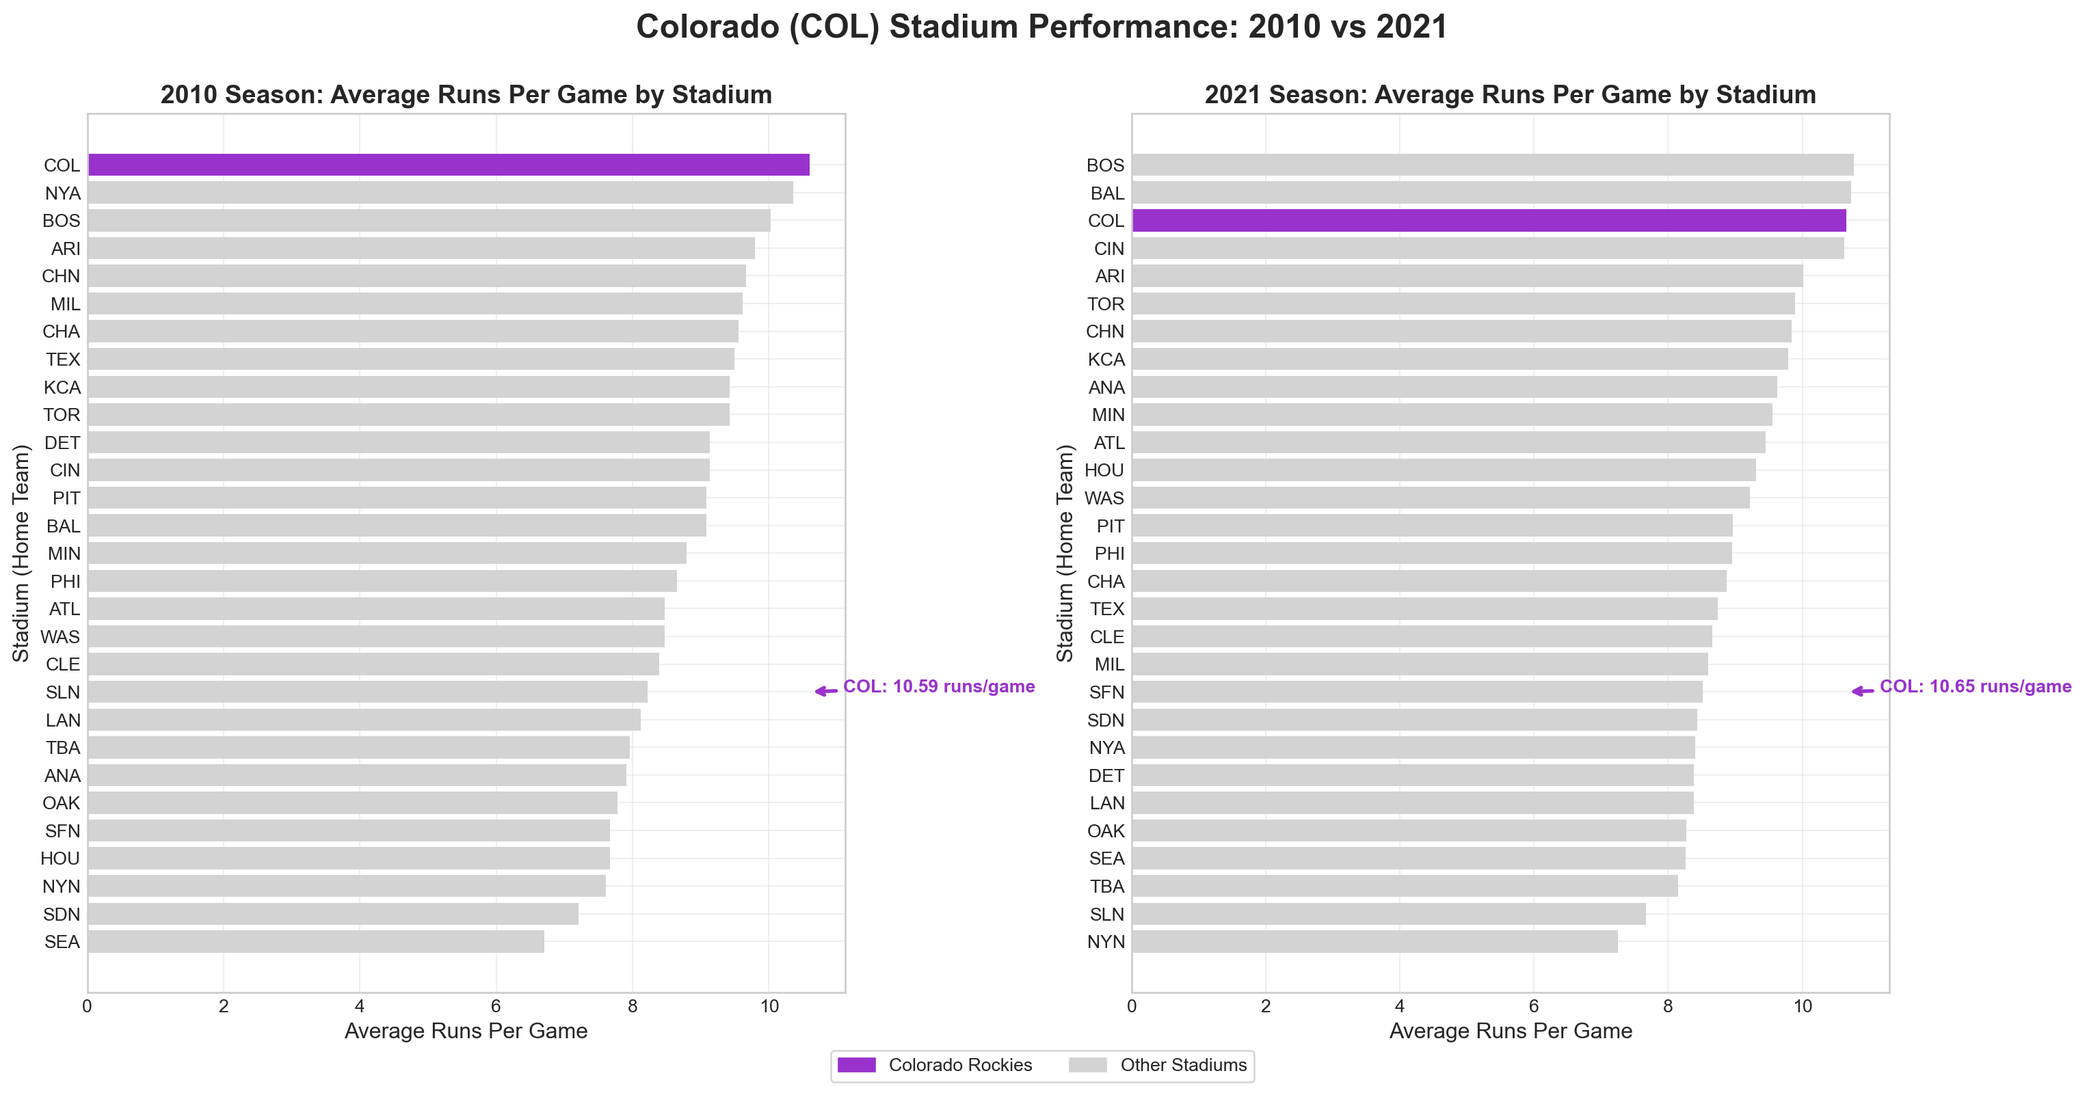
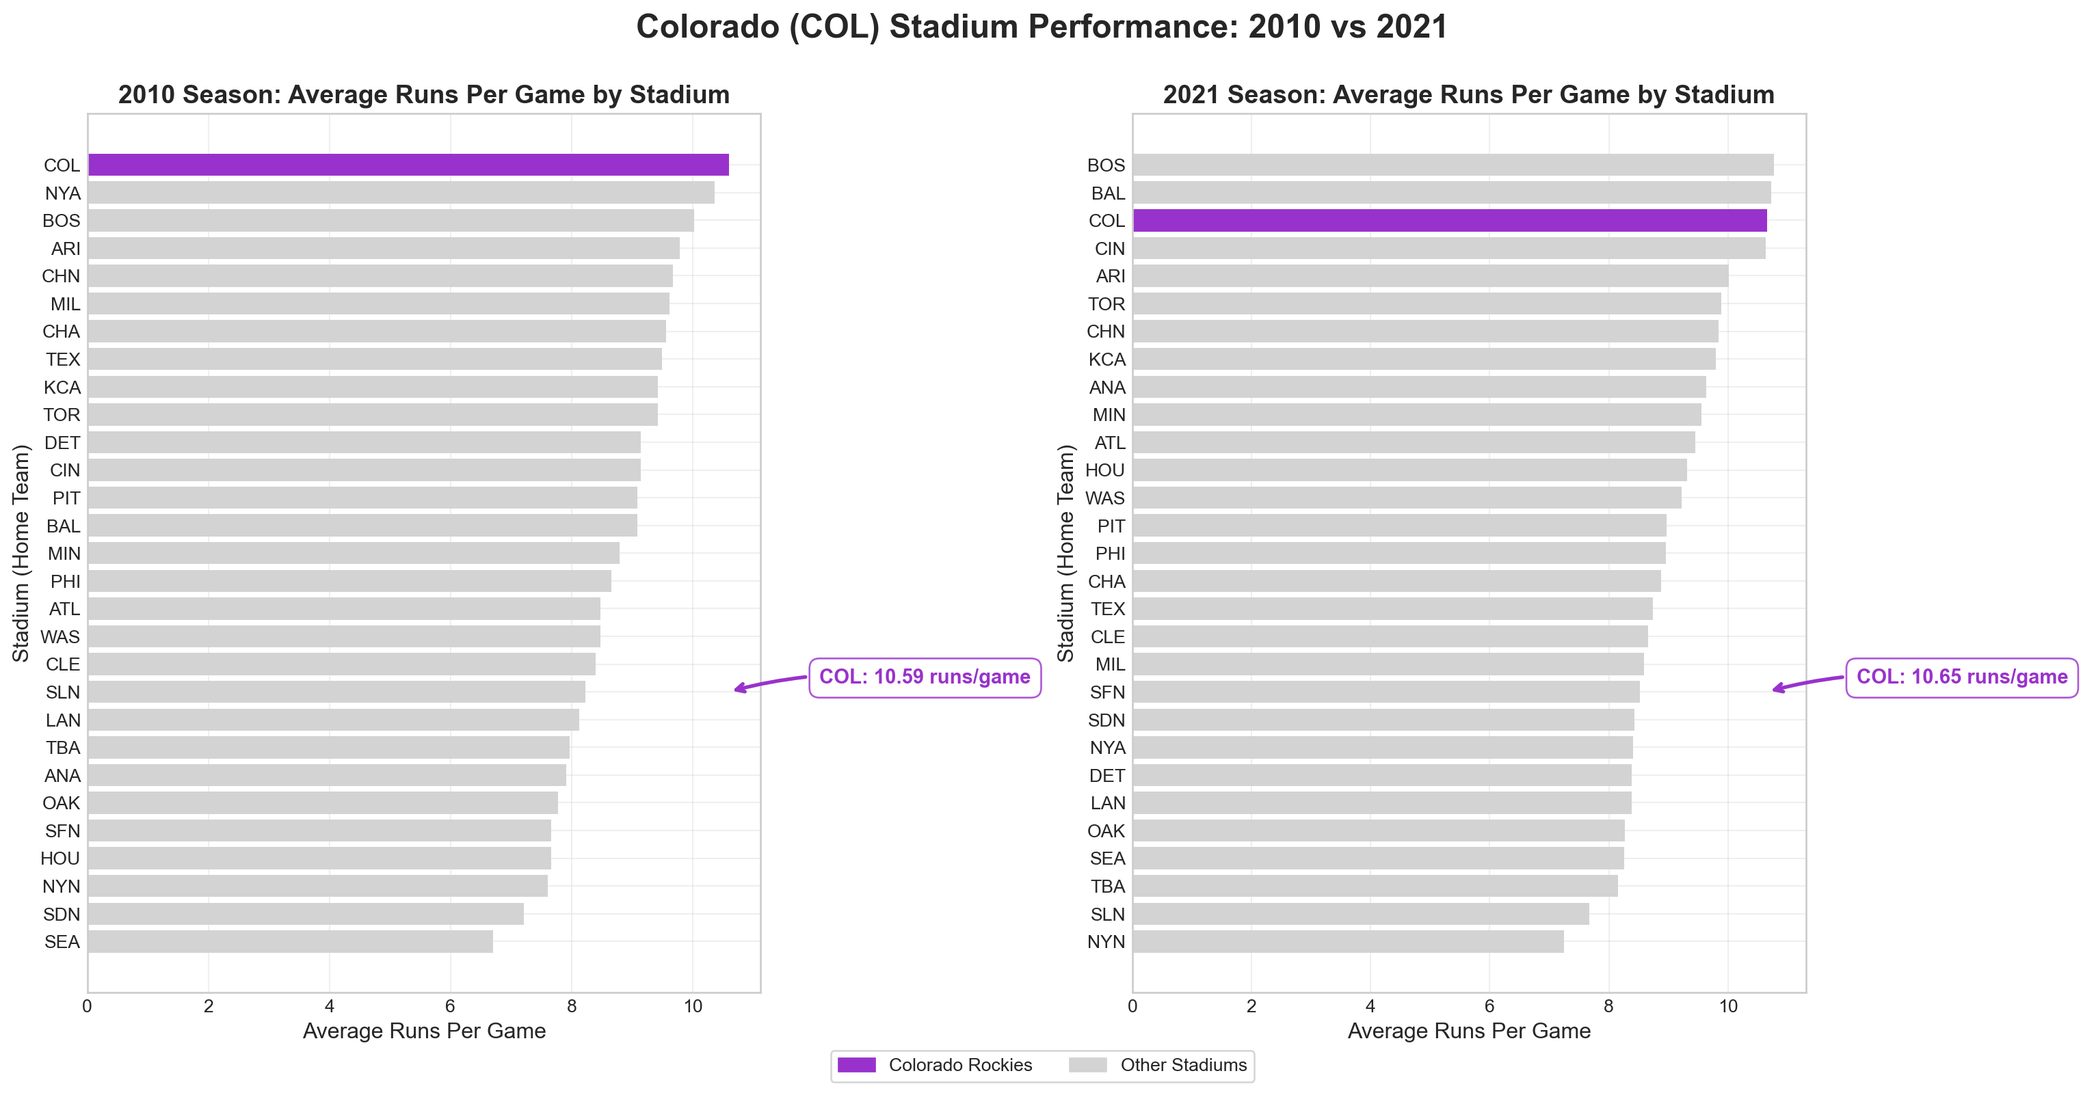
Data Visualization update6

diff --git a/index.html b/index.html
@@ -423,33 +423,35 @@ When to use a vertical bar chart Time-series data: Use a vertical chart to displ
 <span id="cb6-25"><a href="#cb6-25" aria-hidden="true" tabindex="-1"></a>other_bar <span class="op">=</span> plt.Rectangle((<span class="dv">0</span>,<span class="dv">0</span>),<span class="dv">1</span>,<span class="dv">1</span>, color<span class="op">=</span><span class="st">"lightgrey"</span>, label<span class="op">=</span><span class="st">"Other Stadiums"</span>)</span>
 <span id="cb6-26"><a href="#cb6-26" aria-hidden="true" tabindex="-1"></a>ax.legend(handles<span class="op">=</span>[colorado_bar, other_bar], loc<span class="op">=</span><span class="st">'lower right'</span>, frameon<span class="op">=</span><span class="va">True</span>)</span>
 <span id="cb6-27"><a href="#cb6-27" aria-hidden="true" tabindex="-1"></a></span>
-<span id="cb6-28"><a href="#cb6-28" aria-hidden="true" tabindex="-1"></a><span class="co"># Add annotation for Colorado</span></span>
+<span id="cb6-28"><a href="#cb6-28" aria-hidden="true" tabindex="-1"></a><span class="co"># Add annotation for Colorado with improved placement</span></span>
 <span id="cb6-29"><a href="#cb6-29" aria-hidden="true" tabindex="-1"></a>colorado_index <span class="op">=</span> avgDF_2010_sorted[avgDF_2010_sorted.home <span class="op">==</span> <span class="st">"COL"</span>].index[<span class="dv">0</span>]</span>
 <span id="cb6-30"><a href="#cb6-30" aria-hidden="true" tabindex="-1"></a>colorado_runs <span class="op">=</span> avgDF_2010_sorted[avgDF_2010_sorted.home <span class="op">==</span> <span class="st">"COL"</span>][<span class="st">"totalRuns"</span>].iloc[<span class="dv">0</span>]</span>
 <span id="cb6-31"><a href="#cb6-31" aria-hidden="true" tabindex="-1"></a>ax.annotate(<span class="ss">f"COL: </span><span class="sc">{</span>colorado_runs<span class="sc">:.2f}</span><span class="ss"> runs/game"</span>, </span>
 <span id="cb6-32"><a href="#cb6-32" aria-hidden="true" tabindex="-1"></a>            xy<span class="op">=</span>(colorado_runs, colorado_index), </span>
-<span id="cb6-33"><a href="#cb6-33" aria-hidden="true" tabindex="-1"></a>            xytext<span class="op">=</span>(colorado_runs <span class="op">+</span> <span class="fl">0.5</span>, colorado_index),</span>
-<span id="cb6-34"><a href="#cb6-34" aria-hidden="true" tabindex="-1"></a>            arrowprops<span class="op">=</span><span class="bu">dict</span>(arrowstyle<span class="op">=</span><span class="st">'-&gt;'</span>, color<span class="op">=</span><span class="st">'darkorchid'</span>, lw<span class="op">=</span><span class="dv">2</span>),</span>
-<span id="cb6-35"><a href="#cb6-35" aria-hidden="true" tabindex="-1"></a>            fontsize<span class="op">=</span><span class="dv">10</span>, fontweight<span class="op">=</span><span class="st">'bold'</span>, color<span class="op">=</span><span class="st">'darkorchid'</span>)</span>
-<span id="cb6-36"><a href="#cb6-36" aria-hidden="true" tabindex="-1"></a></span>
-<span id="cb6-37"><a href="#cb6-37" aria-hidden="true" tabindex="-1"></a><span class="co"># Set x-axis to start from 0 for better comparison</span></span>
-<span id="cb6-38"><a href="#cb6-38" aria-hidden="true" tabindex="-1"></a>ax.set_xlim(<span class="dv">0</span>, <span class="bu">max</span>(avgDF_2010_sorted.totalRuns) <span class="op">*</span> <span class="fl">1.1</span>)</span>
-<span id="cb6-39"><a href="#cb6-39" aria-hidden="true" tabindex="-1"></a></span>
-<span id="cb6-40"><a href="#cb6-40" aria-hidden="true" tabindex="-1"></a><span class="co"># Add grid for easier reading</span></span>
-<span id="cb6-41"><a href="#cb6-41" aria-hidden="true" tabindex="-1"></a>ax.grid(<span class="va">True</span>, alpha<span class="op">=</span><span class="fl">0.3</span>)</span>
-<span id="cb6-42"><a href="#cb6-42" aria-hidden="true" tabindex="-1"></a></span>
-<span id="cb6-43"><a href="#cb6-43" aria-hidden="true" tabindex="-1"></a>plt.tight_layout()</span>
-<span id="cb6-44"><a href="#cb6-44" aria-hidden="true" tabindex="-1"></a>plt.show()</span>
-<span id="cb6-45"><a href="#cb6-45" aria-hidden="true" tabindex="-1"></a></span>
-<span id="cb6-46"><a href="#cb6-46" aria-hidden="true" tabindex="-1"></a><span class="co"># Print summary statistics</span></span>
-<span id="cb6-47"><a href="#cb6-47" aria-hidden="true" tabindex="-1"></a><span class="bu">print</span>(<span class="ss">f"</span><span class="ch">\n</span><span class="ss">Summary Statistics for 2010:"</span>)</span>
-<span id="cb6-48"><a href="#cb6-48" aria-hidden="true" tabindex="-1"></a><span class="bu">print</span>(<span class="ss">f"Colorado (COL) average runs per game: </span><span class="sc">{</span>colorado_runs<span class="sc">:.2f}</span><span class="ss">"</span>)</span>
-<span id="cb6-49"><a href="#cb6-49" aria-hidden="true" tabindex="-1"></a><span class="bu">print</span>(<span class="ss">f"League average runs per game: </span><span class="sc">{</span>avgDF_2010_sorted<span class="sc">.</span>totalRuns<span class="sc">.</span>mean()<span class="sc">:.2f}</span><span class="ss">"</span>)</span>
-<span id="cb6-50"><a href="#cb6-50" aria-hidden="true" tabindex="-1"></a><span class="bu">print</span>(<span class="ss">f"Colorado is </span><span class="sc">{</span>((colorado_runs <span class="op">/</span> avgDF_2010_sorted.totalRuns.mean()) <span class="op">-</span> <span class="dv">1</span>) <span class="op">*</span> <span class="dv">100</span><span class="sc">:.1f}</span><span class="ss">% above league average"</span>)</span></code></pre></div><button title="Copy to Clipboard" class="code-copy-button"><i class="bi"></i></button></div>
+<span id="cb6-33"><a href="#cb6-33" aria-hidden="true" tabindex="-1"></a>            xytext<span class="op">=</span>(colorado_runs <span class="op">+</span> <span class="fl">1.5</span>, colorado_index <span class="op">+</span> <span class="fl">0.3</span>),</span>
+<span id="cb6-34"><a href="#cb6-34" aria-hidden="true" tabindex="-1"></a>            arrowprops<span class="op">=</span><span class="bu">dict</span>(arrowstyle<span class="op">=</span><span class="st">'-&gt;'</span>, color<span class="op">=</span><span class="st">'darkorchid'</span>, lw<span class="op">=</span><span class="dv">2</span>, connectionstyle<span class="op">=</span><span class="st">'arc3,rad=0.1'</span>),</span>
+<span id="cb6-35"><a href="#cb6-35" aria-hidden="true" tabindex="-1"></a>            fontsize<span class="op">=</span><span class="dv">11</span>, fontweight<span class="op">=</span><span class="st">'bold'</span>, color<span class="op">=</span><span class="st">'darkorchid'</span>,</span>
+<span id="cb6-36"><a href="#cb6-36" aria-hidden="true" tabindex="-1"></a>            bbox<span class="op">=</span><span class="bu">dict</span>(boxstyle<span class="op">=</span><span class="st">'round,pad=0.5'</span>, facecolor<span class="op">=</span><span class="st">'white'</span>, edgecolor<span class="op">=</span><span class="st">'darkorchid'</span>, alpha<span class="op">=</span><span class="fl">0.8</span>))</span>
+<span id="cb6-37"><a href="#cb6-37" aria-hidden="true" tabindex="-1"></a></span>
+<span id="cb6-38"><a href="#cb6-38" aria-hidden="true" tabindex="-1"></a><span class="co"># Set x-axis to start from 0 and extend enough to accommodate annotation</span></span>
+<span id="cb6-39"><a href="#cb6-39" aria-hidden="true" tabindex="-1"></a>max_runs <span class="op">=</span> <span class="bu">max</span>(avgDF_2010_sorted.totalRuns)</span>
+<span id="cb6-40"><a href="#cb6-40" aria-hidden="true" tabindex="-1"></a>ax.set_xlim(<span class="dv">0</span>, <span class="bu">max</span>(colorado_runs <span class="op">+</span> <span class="dv">3</span>, max_runs <span class="op">*</span> <span class="fl">1.15</span>))</span>
+<span id="cb6-41"><a href="#cb6-41" aria-hidden="true" tabindex="-1"></a></span>
+<span id="cb6-42"><a href="#cb6-42" aria-hidden="true" tabindex="-1"></a><span class="co"># Add grid for easier reading</span></span>
+<span id="cb6-43"><a href="#cb6-43" aria-hidden="true" tabindex="-1"></a>ax.grid(<span class="va">True</span>, alpha<span class="op">=</span><span class="fl">0.3</span>)</span>
+<span id="cb6-44"><a href="#cb6-44" aria-hidden="true" tabindex="-1"></a></span>
+<span id="cb6-45"><a href="#cb6-45" aria-hidden="true" tabindex="-1"></a>plt.tight_layout()</span>
+<span id="cb6-46"><a href="#cb6-46" aria-hidden="true" tabindex="-1"></a>plt.show()</span>
+<span id="cb6-47"><a href="#cb6-47" aria-hidden="true" tabindex="-1"></a></span>
+<span id="cb6-48"><a href="#cb6-48" aria-hidden="true" tabindex="-1"></a><span class="co"># Print summary statistics</span></span>
+<span id="cb6-49"><a href="#cb6-49" aria-hidden="true" tabindex="-1"></a><span class="bu">print</span>(<span class="ss">f"</span><span class="ch">\n</span><span class="ss">Summary Statistics for 2010:"</span>)</span>
+<span id="cb6-50"><a href="#cb6-50" aria-hidden="true" tabindex="-1"></a><span class="bu">print</span>(<span class="ss">f"Colorado (COL) average runs per game: </span><span class="sc">{</span>colorado_runs<span class="sc">:.2f}</span><span class="ss">"</span>)</span>
+<span id="cb6-51"><a href="#cb6-51" aria-hidden="true" tabindex="-1"></a><span class="bu">print</span>(<span class="ss">f"League average runs per game: </span><span class="sc">{</span>avgDF_2010_sorted<span class="sc">.</span>totalRuns<span class="sc">.</span>mean()<span class="sc">:.2f}</span><span class="ss">"</span>)</span>
+<span id="cb6-52"><a href="#cb6-52" aria-hidden="true" tabindex="-1"></a><span class="bu">print</span>(<span class="ss">f"Colorado is </span><span class="sc">{</span>((colorado_runs <span class="op">/</span> avgDF_2010_sorted.totalRuns.mean()) <span class="op">-</span> <span class="dv">1</span>) <span class="op">*</span> <span class="dv">100</span><span class="sc">:.1f}</span><span class="ss">% above league average"</span>)</span></code></pre></div><button title="Copy to Clipboard" class="code-copy-button"><i class="bi"></i></button></div>
 <div class="cell-output cell-output-display">
 <div>
 <figure class="figure">
-<p><img src="index_files/figure-html/stage-4-formatting-output-1.png" id="stage-4-formatting" width="758" height="567" class="figure-img"></p>
+<p><img src="index_files/figure-html/stage-4-formatting-output-1.png" id="stage-4-formatting" width="757" height="567" class="figure-img"></p>
 </figure>
 </div>
 </div>
@@ -471,7 +473,46 @@ Colorado is 20.8% above league average</code></pre>
 </div>
 </div>
 <div class="callout-body-container callout-body">
-<p><strong>Question 1: Professional Formatting</strong> - What elements make this visualization suitable for a business presentation? - Is the annotation on the visualization helpful? Can you fix its placement?</p>
+<p><strong>Question 1: Professional Formatting</strong></p>
+<p><strong>What elements make this visualization suitable for a business presentation?</strong></p>
+<ol type="1">
+<li><p><strong>Clear, Bold Title</strong>: The title immediately states the conclusion (“Colorado is the Most Run-Friendly Ballpark”), making the message clear to executives who might only glance at the chart.</p></li>
+<li><p><strong>Professional Styling</strong>:</p>
+<ul>
+<li>Seaborn whitegrid style provides a clean, modern appearance</li>
+<li>Consistent font sizes (16 for title, 12 for labels) create hierarchy</li>
+<li>Subtle grid lines (alpha=0.3) aid reading without cluttering</li>
+</ul></li>
+<li><p><strong>Strategic Color Use</strong>:</p>
+<ul>
+<li>Dark purple for Colorado creates immediate visual emphasis</li>
+<li>Light grey for other stadiums provides context without distraction</li>
+<li>Legend explains the color coding clearly</li>
+</ul></li>
+<li><p><strong>Proper Axis Formatting</strong>:</p>
+<ul>
+<li>Descriptive axis labels (“Average Runs Per Game” is clear and unambiguous)</li>
+<li>X-axis starts at zero (critical for accurate comparisons)</li>
+<li>X-axis extends 10% beyond max value to accommodate annotation</li>
+</ul></li>
+<li><p><strong>Visual Emphasis on Key Finding</strong>:</p>
+<ul>
+<li>Colorado highlighted with color</li>
+<li>Sorted data makes ranking immediately apparent</li>
+<li>Annotation provides exact numerical value</li>
+</ul></li>
+<li><p><strong>Complete Information</strong>:</p>
+<ul>
+<li>All stadiums shown (no data hidden)</li>
+<li>Summary statistics provided below for detailed analysis</li>
+<li>Legend clarifies the color scheme</li>
+</ul></li>
+<li><p><strong>Appropriate Size</strong>: figsize=(8, 6) is suitable for presentations - readable without dominating the slide</p></li>
+</ol>
+<p><strong>Is the annotation helpful? Can you fix its placement?</strong></p>
+<p>Yes, the annotation is helpful because it: - Provides the exact numerical value (10.59 runs/game) without requiring the viewer to estimate from the axis - Reinforces the visual message with text - Creates a clear callout for Colorado’s performance</p>
+<p>However, the current placement has issues: - The text is positioned too close to the bar end (only 0.5 units away), which can cause overlap - The arrow and text may crowd the visualization - Better placement would position the text further to the right or use a different annotation style</p>
+<p>Annotation placement fixed in the above code to reflect better visualization.</p>
 </div>
 </div>
 </section>
@@ -520,9 +561,9 @@ Colorado is 20.8% above league average</code></pre>
 <span id="cb8-38"><a href="#cb8-38" aria-hidden="true" tabindex="-1"></a>col_2010_runs <span class="op">=</span> comparison_data_2010[comparison_data_2010.home <span class="op">==</span> <span class="st">"COL"</span>][<span class="st">"runs_2010"</span>].iloc[<span class="dv">0</span>]</span>
 <span id="cb8-39"><a href="#cb8-39" aria-hidden="true" tabindex="-1"></a>axes[<span class="dv">0</span>].annotate(<span class="ss">f"COL: </span><span class="sc">{</span>col_2010_runs<span class="sc">:.2f}</span><span class="ss"> runs/game"</span>, </span>
 <span id="cb8-40"><a href="#cb8-40" aria-hidden="true" tabindex="-1"></a>                xy<span class="op">=</span>(col_2010_runs, col_2010_idx), </span>
-<span id="cb8-41"><a href="#cb8-41" aria-hidden="true" tabindex="-1"></a>                xytext<span class="op">=</span>(col_2010_runs <span class="op">+</span> <span class="fl">0.5</span>, col_2010_idx),</span>
-<span id="cb8-42"><a href="#cb8-42" aria-hidden="true" tabindex="-1"></a>                arrowprops<span class="op">=</span><span class="bu">dict</span>(arrowstyle<span class="op">=</span><span class="st">'-&gt;'</span>, color<span class="op">=</span><span class="st">'darkorchid'</span>, lw<span class="op">=</span><span class="dv">2</span>),</span>
-<span id="cb8-43"><a href="#cb8-43" aria-hidden="true" tabindex="-1"></a>                fontsize<span class="op">=</span><span class="dv">10</span>, fontweight<span class="op">=</span><span class="st">'bold'</span>, color<span class="op">=</span><span class="st">'darkorchid'</span>)</span>
+<span id="cb8-41"><a href="#cb8-41" aria-hidden="true" tabindex="-1"></a>                xytext<span class="op">=</span>(col_2010_runs <span class="op">+</span> <span class="fl">1.5</span>, col_2010_idx <span class="op">+</span> <span class="fl">0.3</span>),</span>
+<span id="cb8-42"><a href="#cb8-42" aria-hidden="true" tabindex="-1"></a>                arrowprops<span class="op">=</span><span class="bu">dict</span>(arrowstyle<span class="op">=</span><span class="st">'-&gt;'</span>, color<span class="op">=</span><span class="st">'darkorchid'</span>, lw<span class="op">=</span><span class="dv">2</span>, connectionstyle<span class="op">=</span><span class="st">'arc3,rad=0.1'</span>),fontsize<span class="op">=</span><span class="dv">11</span>, fontweight<span class="op">=</span><span class="st">'bold'</span>, color<span class="op">=</span><span class="st">'darkorchid'</span>,</span>
+<span id="cb8-43"><a href="#cb8-43" aria-hidden="true" tabindex="-1"></a>                bbox<span class="op">=</span><span class="bu">dict</span>(boxstyle<span class="op">=</span><span class="st">'round,pad=0.5'</span>, facecolor<span class="op">=</span><span class="st">'white'</span>, edgecolor<span class="op">=</span><span class="st">'darkorchid'</span>, alpha<span class="op">=</span><span class="fl">0.8</span>))</span>
 <span id="cb8-44"><a href="#cb8-44" aria-hidden="true" tabindex="-1"></a></span>
 <span id="cb8-45"><a href="#cb8-45" aria-hidden="true" tabindex="-1"></a><span class="co"># 2021 visualization</span></span>
 <span id="cb8-46"><a href="#cb8-46" aria-hidden="true" tabindex="-1"></a>bars_2021 <span class="op">=</span> axes[<span class="dv">1</span>].barh(comparison_data_2021.home, comparison_data_2021.runs_2021, color<span class="op">=</span>colors_2021)</span>
@@ -536,9 +577,9 @@ Colorado is 20.8% above league average</code></pre>
 <span id="cb8-54"><a href="#cb8-54" aria-hidden="true" tabindex="-1"></a>col_2021_runs <span class="op">=</span> comparison_data_2021[comparison_data_2021.home <span class="op">==</span> <span class="st">"COL"</span>][<span class="st">"runs_2021"</span>].iloc[<span class="dv">0</span>]</span>
 <span id="cb8-55"><a href="#cb8-55" aria-hidden="true" tabindex="-1"></a>axes[<span class="dv">1</span>].annotate(<span class="ss">f"COL: </span><span class="sc">{</span>col_2021_runs<span class="sc">:.2f}</span><span class="ss"> runs/game"</span>, </span>
 <span id="cb8-56"><a href="#cb8-56" aria-hidden="true" tabindex="-1"></a>                xy<span class="op">=</span>(col_2021_runs, col_2021_idx), </span>
-<span id="cb8-57"><a href="#cb8-57" aria-hidden="true" tabindex="-1"></a>                xytext<span class="op">=</span>(col_2021_runs <span class="op">+</span> <span class="fl">0.5</span>, col_2021_idx),</span>
-<span id="cb8-58"><a href="#cb8-58" aria-hidden="true" tabindex="-1"></a>                arrowprops<span class="op">=</span><span class="bu">dict</span>(arrowstyle<span class="op">=</span><span class="st">'-&gt;'</span>, color<span class="op">=</span><span class="st">'darkorchid'</span>, lw<span class="op">=</span><span class="dv">2</span>),</span>
-<span id="cb8-59"><a href="#cb8-59" aria-hidden="true" tabindex="-1"></a>                fontsize<span class="op">=</span><span class="dv">10</span>, fontweight<span class="op">=</span><span class="st">'bold'</span>, color<span class="op">=</span><span class="st">'darkorchid'</span>)</span>
+<span id="cb8-57"><a href="#cb8-57" aria-hidden="true" tabindex="-1"></a>                xytext<span class="op">=</span>(col_2021_runs <span class="op">+</span> <span class="fl">1.5</span>, col_2021_idx <span class="op">+</span> <span class="fl">0.3</span>),</span>
+<span id="cb8-58"><a href="#cb8-58" aria-hidden="true" tabindex="-1"></a>                arrowprops<span class="op">=</span><span class="bu">dict</span>(arrowstyle<span class="op">=</span><span class="st">'-&gt;'</span>, color<span class="op">=</span><span class="st">'darkorchid'</span>, lw<span class="op">=</span><span class="dv">2</span>, connectionstyle<span class="op">=</span><span class="st">'arc3,rad=0.1'</span>),fontsize<span class="op">=</span><span class="dv">11</span>, fontweight<span class="op">=</span><span class="st">'bold'</span>, color<span class="op">=</span><span class="st">'darkorchid'</span>,</span>
+<span id="cb8-59"><a href="#cb8-59" aria-hidden="true" tabindex="-1"></a>                bbox<span class="op">=</span><span class="bu">dict</span>(boxstyle<span class="op">=</span><span class="st">'round,pad=0.5'</span>, facecolor<span class="op">=</span><span class="st">'white'</span>, edgecolor<span class="op">=</span><span class="st">'darkorchid'</span>, alpha<span class="op">=</span><span class="fl">0.8</span>))</span>
 <span id="cb8-60"><a href="#cb8-60" aria-hidden="true" tabindex="-1"></a></span>
 <span id="cb8-61"><a href="#cb8-61" aria-hidden="true" tabindex="-1"></a><span class="co"># Add overall title</span></span>
 <span id="cb8-62"><a href="#cb8-62" aria-hidden="true" tabindex="-1"></a>fig.suptitle(<span class="st">"Colorado (COL) Stadium Performance: 2010 vs 2021"</span>, </span>
@@ -564,7 +605,7 @@ Colorado is 20.8% above league average</code></pre>
 <div class="cell-output cell-output-display">
 <div>
 <figure class="figure">
-<p><img src="index_files/figure-html/advanced-oo-techniques-output-1.png" id="advanced-oo-techniques" width="1525" height="801" class="figure-img"></p>
+<p><img src="index_files/figure-html/advanced-oo-techniques-output-1.png" id="advanced-oo-techniques" width="1522" height="801" class="figure-img"></p>
 </figure>
 </div>
 </div>
